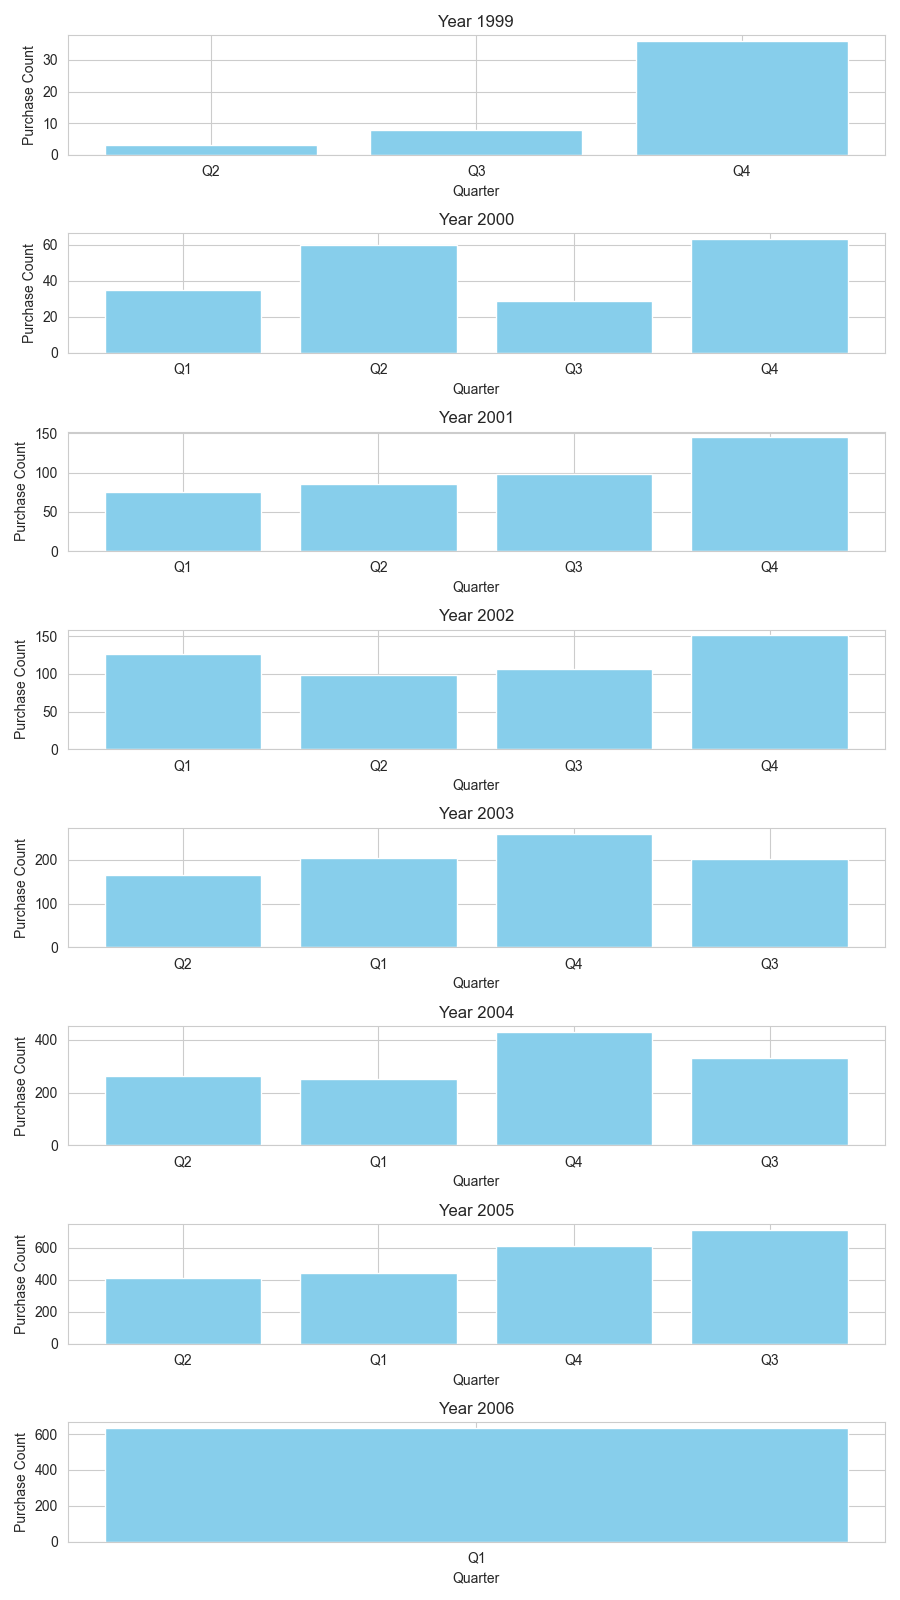
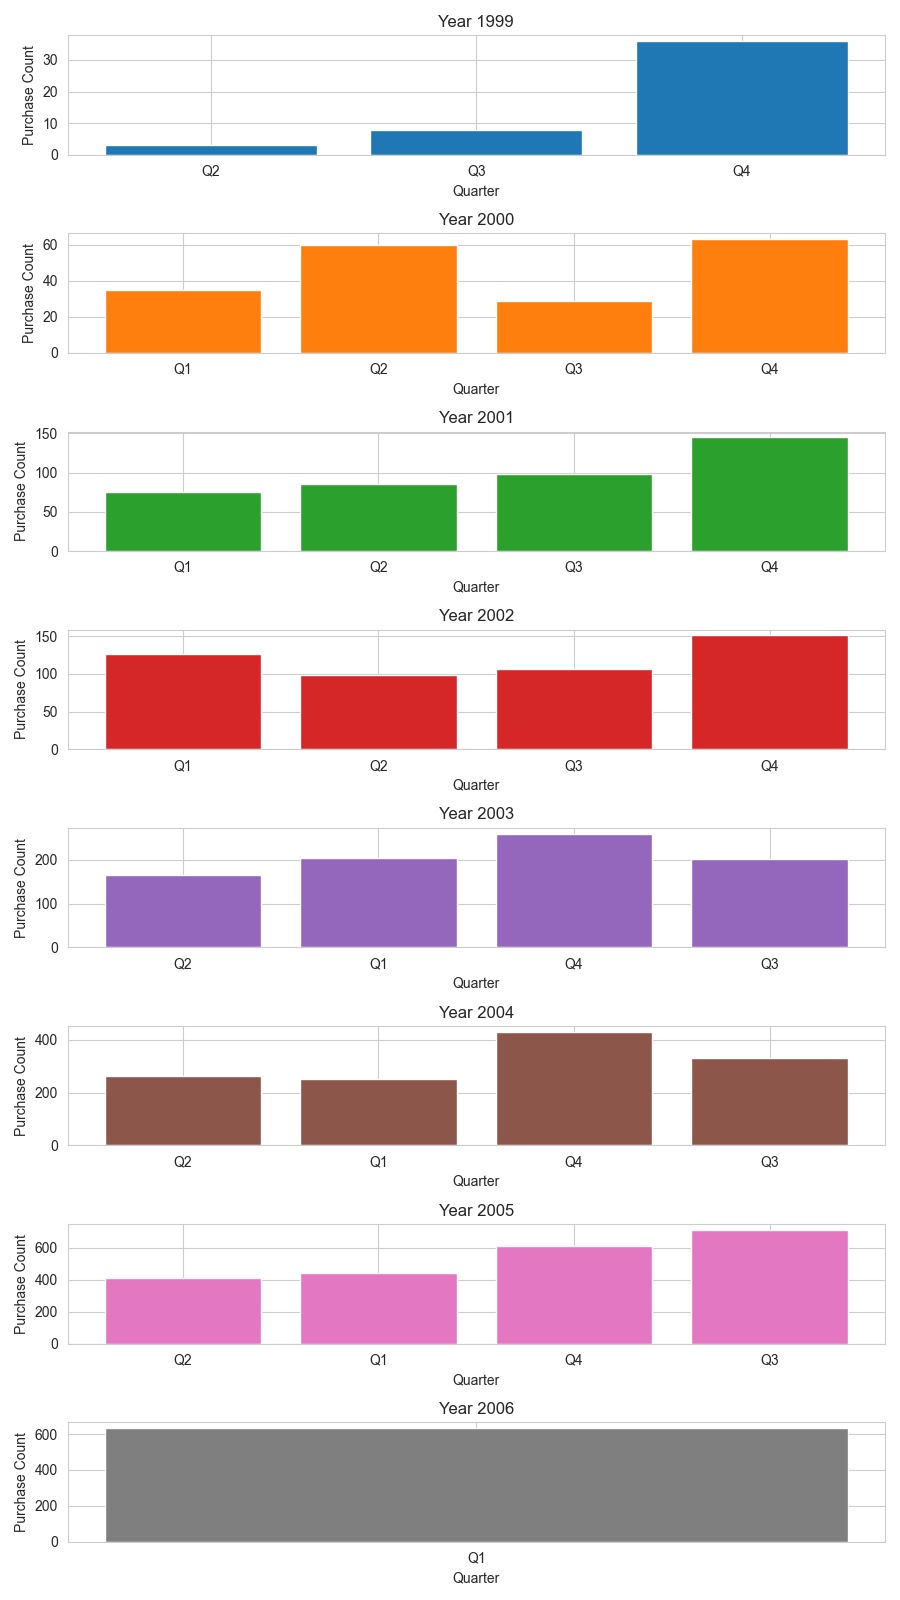
changes in graphs

diff --git a/templates/index.html b/templates/index.html
@@ -225,7 +225,7 @@
                 <div class="card flex-grow-1 mb-4">
                     <div class="card-body">
                         <h3 class="card-title">Quarterly Breakdown of Annual Electronics Sales Analysis</h3>
-                        <img src="{{ Viz7 }}" alt="">
+                        <img src="{{ Viz7 }}" alt="" style="max-width: 100%; height: auto;">
                         <p class="card-text"></p>
                     </div>
                 </div>
@@ -271,7 +271,7 @@
                 <div class="card">
                     <div class="card-body">
                         <h5 class="card-title">Frequency Distribution of Product Ratings</h5>
-                        <img src="{{ Viz5 }}" alt="">
+                        <img src="{{ Viz5 }}" alt="" style="max-width: 100%; height: auto;">
                         <p class="card-text"></p>
                     </div>
                 </div>

diff --git a/Visualization.py b/Visualization.py
@@ -127,13 +127,15 @@ def index():
               """
     df5 = pd.read_sql(query5, cnxn)
     plt.figure(figsize=(10, 6))
-    sns.barplot(x='RATING', y='Purchase_Count', data=df5, palette=sns.color_palette("husl", 5))
-    plt.grid(axis='y', color='lightgray')
-    plt.xlabel('Rating')
-    plt.ylabel('Number of Products')
+    sns.barplot(x='Purchase_Count', y='RATING', data=df5, palette=sns.color_palette("husl", 5), orient='h')  # Use orient='h' to invert the graph
+    plt.grid(axis='x', color='lightgray')
+    plt.xlabel('Number of Products')
+    plt.ylabel('Rating')
     plt.title('Product Ratings')
+    plt.tight_layout()
+    
     Viz5 = 'static/Product_Ratings.png'
-    plt.savefig(Viz5)
+    plt.savefig(Viz5, dpi=300)
     plt.close()
 
     #############  QUERY-6: Number of purchases based on Model Attributes ###############
@@ -148,10 +150,10 @@ def index():
     sns.set_style("whitegrid")
 
     # Create the bar plot
-    plt.figure(figsize=(5, 4))
-    sns.barplot(x='MODEL_ATTR', y='Purchase_Count', data=df6, palette='viridis')  # Adjust the palette for a modern look
-    plt.xlabel('Model Attribute', fontsize=6)
-    plt.ylabel('Purchase Count', fontsize=6)
+    plt.figure(figsize=(5, 2))
+    sns.barplot(x='Purchase_Count', y='MODEL_ATTR', data=df6, palette='viridis')  # Adjust the palette for a modern look
+    plt.xlabel('Purchase Count', fontsize=6)
+    plt.ylabel('Model Attribute', fontsize=6)
     plt.xticks(rotation=45, ha='right', fontsize=5)
     plt.yticks(fontsize=5)
     plt.tight_layout()
@@ -161,37 +163,48 @@ def index():
     plt.savefig(Viz6, dpi=300)
 
     #############  QUERY-7: NUMBER OF PURCHASES MADE IN EACH MONTH BASED ON PARTICULAR YEAR ###############
+    # Set a modern color scheme
+    colors = plt.cm.viridis.colors
+
+    # Set a modern font
+    plt.rcParams['font.family'] = 'Arial'
+
     years = range(1999, 2007)  # Range of years to visualize
 
-    fig, axes = plt.subplots(4, 2, figsize=(8,8))
+    fig, axes = plt.subplots(4, 2, figsize=(12, 12))
 
     for i, year in enumerate(years):
         query7 = f"""SELECT MONTH, COUNT(*) AS Purchase_Count FROM PURCHASE 
-                    WHERE YEAR = {year} GROUP BY YEAR, MONTH 
-                    ORDER BY MONTH;"""
+                     WHERE YEAR = {year} GROUP BY YEAR, MONTH 
+                     ORDER BY MONTH;"""
         df7 = pd.read_sql(query7, cnxn)
-        
+
         # Check if the dataframe is empty
         if not df7.empty:
             row = i // 2
             col = i % 2
             ax = axes[row, col]
-            ax.bar(df7['MONTH'], df7['Purchase_Count'])
-            ax.set_title(f'Year {year}')
-            ax.set_xlabel('Month')
-            ax.set_ylabel('Purchase Count')
+            ax.bar(df7['MONTH'], df7['Purchase_Count'], color=colors[i])
+            ax.set_title(f'Year {year}', fontsize=14, fontweight='bold')  # Larger and bolder title
+            ax.set_xlabel('Month', fontsize=12)  # Larger font for x-axis label
+            ax.set_ylabel('Purchase Count', fontsize=12)  # Larger font for y-axis label
+            ax.grid(True, linestyle='--', alpha=0.5)  # Add grid lines
         else:
             # If dataframe is empty, set a placeholder title
             row = i // 2
             col = i % 2
             ax = axes[row, col]
-            ax.set_title(f'Year {year} (No Data)')
+            ax.set_title(f'Year {year} (No Data)', fontsize=14, fontweight='bold', color='gray')  # Placeholder title
             ax.axis('off')  # Turn off axis for empty plots
-            
+
     plt.tight_layout()
+    plt.suptitle('Monthly Purchases by Year', fontsize=16, fontweight='bold')  # Larger and bolder overall title
+    plt.subplots_adjust(top=0.92)  # Adjust top space for the overall title
     Viz7 = 'static/Monthly_Purchases_By_Year.png'
-    plt.savefig(Viz7)
+    plt.savefig(Viz7, dpi=300, bbox_inches='tight')  # Save with higher resolution and tighter bounding box
     plt.close()
+
+
 
     #############  QUERY-8: AVERAGE RATING BASED ON BRAND ###############
     query8 = """
@@ -209,6 +222,8 @@ def index():
     plt.close()
 
     #############  QUERY-9: Identify the top 3 brands with the highest average rating ###############
+    # Assuming you have defined cnxn and imported relevant libraries
+
     query9 = """
             SELECT *
             FROM (
@@ -220,24 +235,48 @@ def index():
             WHERE rank <= 3;
             """
     df9 = pd.read_sql(query9, cnxn)
-    plt.figure(figsize=(4, 6))
-    plt.bar(df9['BRAND'], df9['Avg_Rating'], color='skyblue')
+
+    # Define colors for the bars
+    colors = ['#ff9999', '#66b3ff', '#99ff99']
+
+    # Create the plot
+    plt.figure(figsize=(8, 10))
+    bars = plt.bar(df9['BRAND'], df9['Avg_Rating'], color=colors)
+
+    # Add data labels on top of bars
+    for bar, rating in zip(bars, df9['Avg_Rating']):
+        plt.text(bar.get_x() + bar.get_width() / 2, bar.get_height() + 0.05, round(rating, 2), ha='center', color='black', fontsize=10)
+
+    # Title and labels
     plt.xlabel('Brand')
     plt.ylabel('Average Rating')
     plt.xticks(rotation=45)
+    plt.ylim(0, 5)  # Set y-axis limit to 0-5 for better visualization
+
+    # Remove the top and right spines
+    plt.gca().spines['top'].set_visible(False)
+    plt.gca().spines['right'].set_visible(False)
+
+    # Adjust layout
     plt.tight_layout()
+
+    # Save the plot
     Viz9 = 'static/Top_3_Brands_With_Highest_Avg_Rating.png'
     plt.savefig(Viz9)
-    plt.close()
+
 
     #############  QUERY-10: IDENTIFYING THE SALES PER YEAR IN QUARTERS ###############
-    years = range(1999, 2007)  # Range of years to visualize
 
-    fig, axes = plt.subplots(8, 1, figsize=(9, 16))  # 8 rows, 1 column for vertical arrangement
+    # Define the range of years to visualize
+    years = range(1999, 2007)
 
+    # Create a figure with 8 rows and 1 column for vertical arrangement
+    fig, axes = plt.subplots(8, 1, figsize=(9, 16))
+
+    # Loop through each year
     for i, year in enumerate(years):
         ax = axes[i]  # Select the axis for the current year
-        
+
         # Query to select data for each year
         query10 = f"""
                 SELECT CASE
@@ -258,7 +297,12 @@ def index():
                         END;
                 """
         df10 = pd.read_sql(query10, cnxn)
-        ax.bar(df10['Quarter'], df10['Purchase_Count'], color='skyblue')
+
+        # Select color from 'tab10' colormap
+        color = plt.cm.tab10(i % 10)
+
+        # Plot the bar chart with the selected color
+        ax.bar(df10['Quarter'], df10['Purchase_Count'], color=color)
         ax.set_title(f'Year {year}')
         ax.set_xlabel('Quarter')
         ax.set_ylabel('Purchase Count')
@@ -267,6 +311,7 @@ def index():
     Viz10 = 'static/Purchase_Count_By_Quarter.png'
     plt.savefig(Viz10)
     plt.close()
+
 
 
     return render_template('index.html', Viz1='static/Purchases_Per_Year.png',
